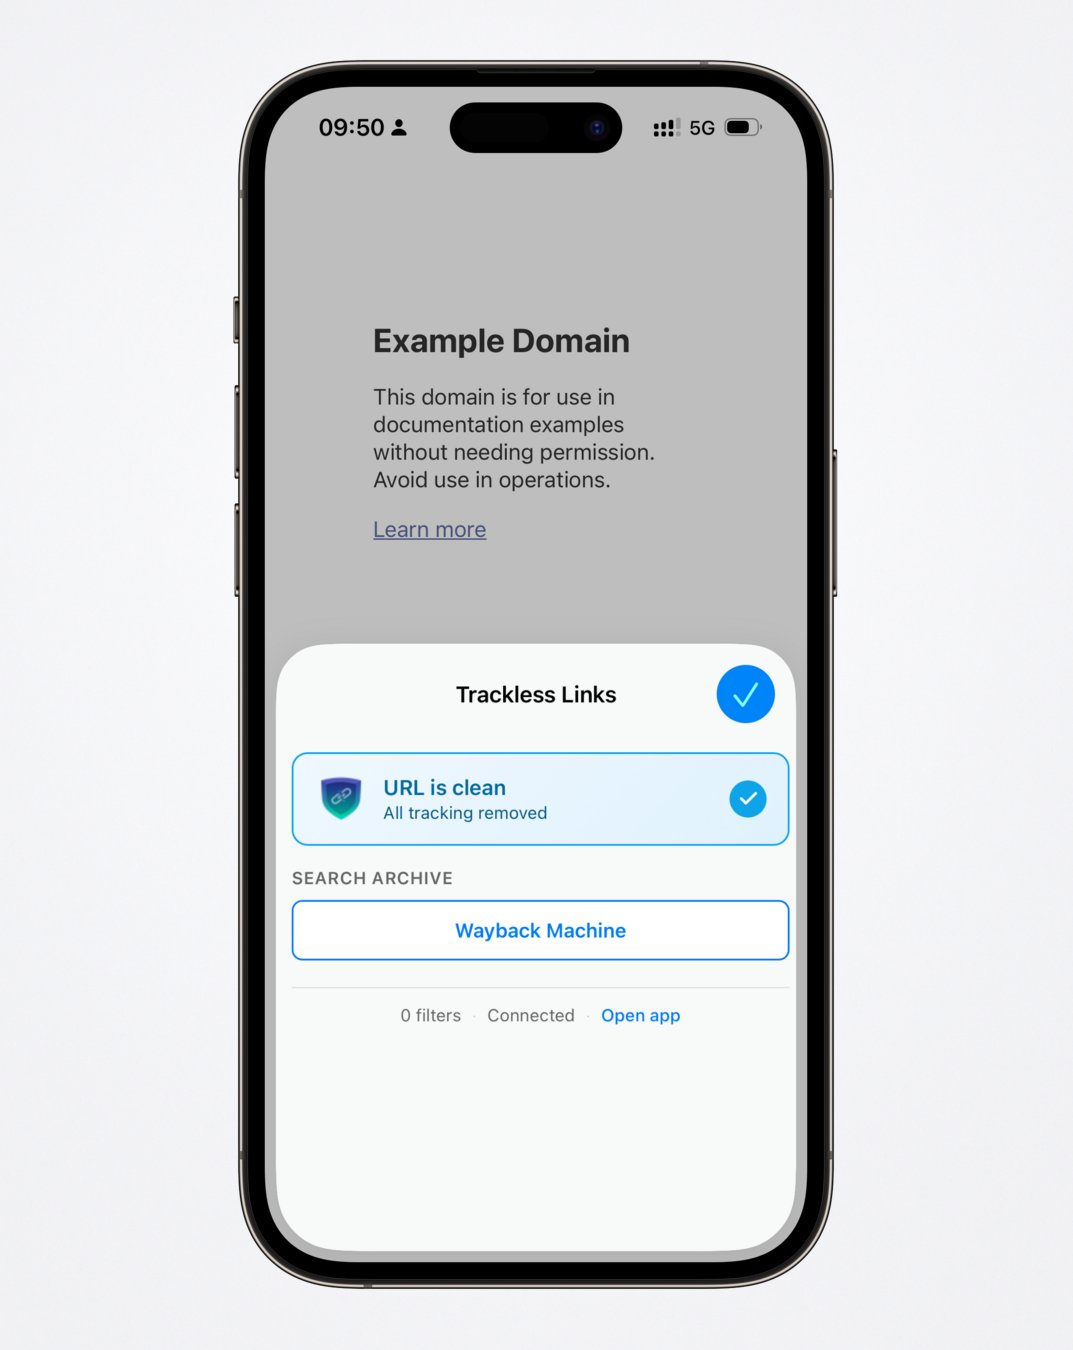
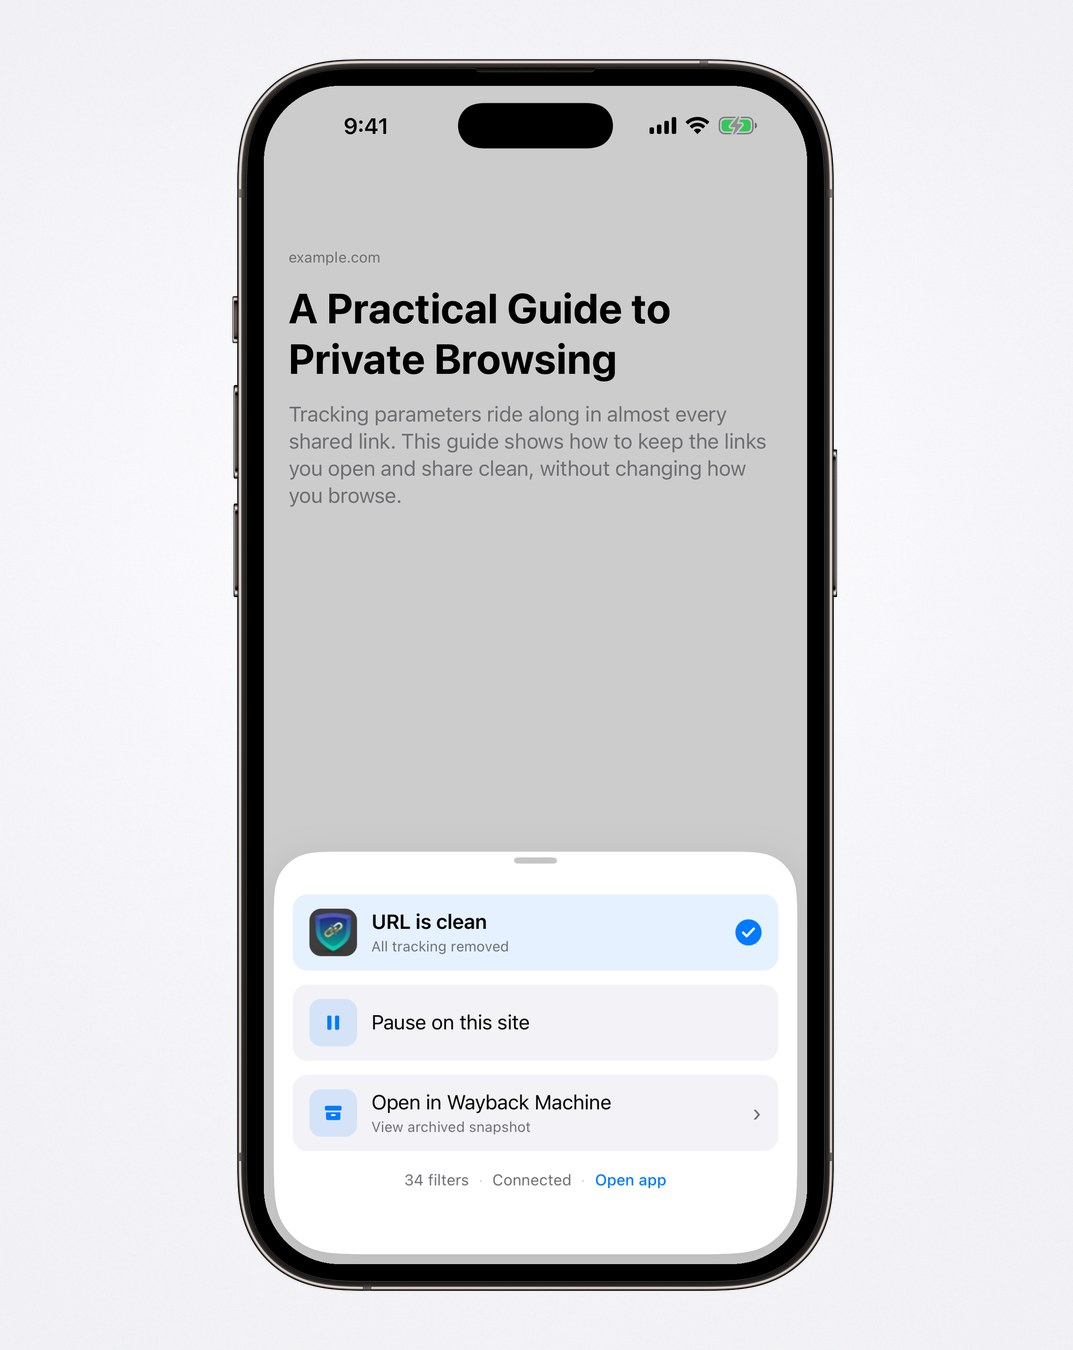
Add 4.6 Share Sheet screenshots and update the Safari popup screenshot
New screenshots of the Share Sheet resolving a t.co short link and cleaning every link in shared text, and a current Safari extension popup (Pause on this site, Wayback Machine, Open app). They show the app's own Share Sheet and popup code with demo URLs only. Each uses the same device frame, size (1339x2716) and screen position as the existing screenshots; the social versions use the existing backdrops at the same device size and position (1073x1350).

README in six languages: a new first row in the Screenshots table with both Share Sheet images. Landing page: both Share Sheet images first in the gallery. The popup images replace the old ones under the same file names, so the existing references stay valid.

diff --git a/docs/index.html b/docs/index.html
@@ -202,6 +202,8 @@ footer a{color:rgba(255,255,255,0.5);text-decoration:none}
 <section class="screenshots">
   <h2>See it in action</h2>
   <div class="screenshot-scroll">
+    <img src="https://raw.githubusercontent.com/aloth/trackless-links/main/assets/social-media/trackless-links_trackless-links-share-sheet-resolve-short-link_on_trackless-links-ios-screenshot-backdrop-clean-minimalist.jpg" alt="Share Sheet resolving a t.co short link" loading="lazy">
+    <img src="https://raw.githubusercontent.com/aloth/trackless-links/main/assets/social-media/trackless-links_trackless-links-share-sheet-clean-copy-text_on_trackless-links-pro-marketing-background-dark-gold-accent.jpg" alt="Share Sheet cleaning every link in shared text" loading="lazy">
     <img src="https://raw.githubusercontent.com/aloth/trackless-links/main/assets/social-media/trackless-links_trackless-links-ios-safari-extension-dashboard_on_trackless-links-app-store-background-blue-teal-gradient.jpg" alt="Safari extension dashboard" loading="lazy">
     <img src="https://raw.githubusercontent.com/aloth/trackless-links/main/assets/social-media/trackless-links_trackless-links-url-tracking-filter-list_on_trackless-links-ios-screenshot-backdrop-clean-minimalist.jpg" alt="URL tracking filter list" loading="lazy">
     <img src="https://raw.githubusercontent.com/aloth/trackless-links/main/assets/social-media/trackless-links_trackless-links-pro-safari-extension-popup_on_trackless-links-pro-marketing-background-dark-gold-accent.jpg" alt="Safari extension popup" loading="lazy">

diff --git a/README_ja.md b/README_ja.md
@@ -151,6 +151,24 @@ Free版でもついに実現。ページを離れずにYouTube動画をPiPで視
 <tr>
 <td width="50%">
 
+### 📤 共有シート：短縮リンクを展開
+t.co、bit.ly、TikTok、Redditの短縮リンクを共有して展開をタップすると、トラッカーを削除したリンク先を確認できます（iPhone・iPad）。
+
+<img src="screenshots/trackless-links-share-sheet-resolve-short-link.png" alt="t.coの短縮リンクをトラッキングパラメータなしのリンク先に展開する共有シート" width="400"/>
+
+</td>
+<td width="50%">
+
+### 📤 共有シート：テキスト内のすべてのリンクをクリーンに
+複数のリンクを含むメッセージやメモを共有し、クリーンにしてテキストをコピーをタップ。テキストはそのままで、すべてのリンクがクリーンになります。
+
+<img src="screenshots/trackless-links-share-sheet-clean-copy-text.png" alt="クリーンにしてテキストをコピーで共有テキスト内のすべてのリンクをクリーンにする共有シート" width="400"/>
+
+</td>
+</tr>
+<tr>
+<td width="50%">
+
 ### 🏠 プライバシーダッシュボード
 ブロックしたトラッカー、適用したリダイレクト、節約したデータ量をリアルタイム表示。iPhone、iPad、Mac向けのクリーンなLiquid Glassデザイン。
 

diff --git a/README_fr.md b/README_fr.md
@@ -153,6 +153,24 @@ Retrouvez instantanément les contenus supprimés ou modifiés.
 <tr>
 <td width="50%">
 
+### 📤 Feuille de partage : résoudre les liens courts
+Partagez un lien court t.co, bit.ly, TikTok ou Reddit et touchez Résoudre pour voir où il mène, déjà sans traqueurs (iPhone et iPad).
+
+<img src="screenshots/trackless-links-share-sheet-resolve-short-link.png" alt="Feuille de partage résolvant un lien court t.co vers sa destination sans paramètres de suivi" width="400"/>
+
+</td>
+<td width="50%">
+
+### 📤 Feuille de partage : nettoyer tous les liens d'un texte
+Partagez un message ou une note contenant plusieurs liens et touchez Nettoyer et copier le texte. Tous les liens sont nettoyés, le texte reste tel quel.
+
+<img src="screenshots/trackless-links-share-sheet-clean-copy-text.png" alt="Feuille de partage nettoyant tous les liens d'un texte avec Nettoyer et copier le texte" width="400"/>
+
+</td>
+</tr>
+<tr>
+<td width="50%">
+
 ### 🏠 Tableau de bord de confidentialité
 Statistiques en temps réel : traqueurs bloqués, redirections appliquées, bande passante économisée. Design Liquid Glass épuré pour iPhone, iPad et Mac.
 

diff --git a/README_es.md b/README_es.md
@@ -153,6 +153,24 @@ Encuentra al instante contenido borrado o modificado.
 <tr>
 <td width="50%">
 
+### 📤 Hoja para compartir: resolver enlaces cortos
+Comparte un enlace corto de t.co, bit.ly, TikTok o Reddit y toca Resolver para ver adónde lleva, ya sin rastreadores (iPhone y iPad).
+
+<img src="screenshots/trackless-links-share-sheet-resolve-short-link.png" alt="Hoja para compartir resolviendo un enlace corto de t.co a su destino sin parámetros de seguimiento" width="400"/>
+
+</td>
+<td width="50%">
+
+### 📤 Hoja para compartir: limpiar todos los enlaces de un texto
+Comparte un mensaje o una nota con varios enlaces y toca Limpiar y copiar texto. Se limpian todos los enlaces y el texto queda igual.
+
+<img src="screenshots/trackless-links-share-sheet-clean-copy-text.png" alt="Hoja para compartir limpiando todos los enlaces de un texto con Limpiar y copiar texto" width="400"/>
+
+</td>
+</tr>
+<tr>
+<td width="50%">
+
 ### 🏠 Panel de privacidad
 Estadísticas en tiempo real con rastreadores bloqueados, redirecciones aplicadas y datos ahorrados. Diseño Liquid Glass limpio para iPhone, iPad y Mac.
 

diff --git a/README_de.md b/README_de.md
@@ -151,6 +151,24 @@ Finde gelöschte oder geänderte Inhalte sofort.
 <tr>
 <td width="50%">
 
+### 📤 Share Sheet: Kurzlinks auflösen
+Teile einen t.co-, bit.ly-, TikTok- oder Reddit-Kurzlink und tippe auf Auflösen: Du siehst, wohin er führt, mit bereits entfernten Trackern (iPhone & iPad).
+
+<img src="screenshots/trackless-links-share-sheet-resolve-short-link.png" alt="Share Sheet löst einen t.co-Kurzlink zu seinem Ziel auf, Tracking-Parameter entfernt" width="400"/>
+
+</td>
+<td width="50%">
+
+### 📤 Share Sheet: Alle Links im Text bereinigen
+Teile eine Nachricht oder Notiz mit mehreren Links und tippe auf Bereinigen & Text kopieren. Alle Links werden bereinigt, der Text bleibt, wie er war.
+
+<img src="screenshots/trackless-links-share-sheet-clean-copy-text.png" alt="Share Sheet bereinigt alle Links in geteiltem Text mit Bereinigen & Text kopieren" width="400"/>
+
+</td>
+</tr>
+<tr>
+<td width="50%">
+
 ### 🏠 Datenschutz-Dashboard
 Echtzeit-Statistiken mit blockierten Trackern, angewendeten Weiterleitungen und gespartem Datenvolumen. Klares Liquid Glass-Design für iPhone, iPad und Mac.
 

diff --git a/README_zh-Hans.md b/README_zh-Hans.md
@@ -151,6 +151,24 @@ iOS完整的隐私保护和浏览控制。**仅支持 iOS — Mac 用户需要 P
 <tr>
 <td width="50%">
 
+### 📤 共享表单：展开短链接
+分享 t.co、bit.ly、TikTok 或 Reddit 短链接并点击展开，即可查看它指向哪里，跟踪器已被移除（iPhone 和 iPad）。
+
+<img src="screenshots/trackless-links-share-sheet-resolve-short-link.png" alt="共享表单将 t.co 短链接展开为已移除跟踪参数的目标地址" width="400"/>
+
+</td>
+<td width="50%">
+
+### 📤 共享表单：清理文本中的所有链接
+分享包含多个链接的消息或备忘录，点击清理并复制文本。所有链接都会被清理，文本保持原样。
+
+<img src="screenshots/trackless-links-share-sheet-clean-copy-text.png" alt="共享表单通过清理并复制文本清理分享文本中的所有链接" width="400"/>
+
+</td>
+</tr>
+<tr>
+<td width="50%">
+
 ### 🏠 隐私仪表板
 实时统计显示已拦截的追踪器、已应用的重定向和节省的带宽。为iPhone、iPad和Mac优化的简洁Liquid Glass设计。
 

diff --git a/README.md b/README.md
@@ -153,6 +153,24 @@ Find deleted or changed content instantly.
 <tr>
 <td width="50%">
 
+### 📤 Share Sheet: Resolve Short Links
+Share a t.co, bit.ly, TikTok, or Reddit short link and tap Resolve to see where it leads, with its trackers already removed (iPhone & iPad).
+
+<img src="screenshots/trackless-links-share-sheet-resolve-short-link.png" alt="Share Sheet resolving a t.co short link to its destination with tracking parameters removed" width="400"/>
+
+</td>
+<td width="50%">
+
+### 📤 Share Sheet: Clean Every Link in Text
+Share a message or note with several links and tap Clean & Copy Text. Every link is cleaned, the text stays exactly as it was.
+
+<img src="screenshots/trackless-links-share-sheet-clean-copy-text.png" alt="Share Sheet cleaning every link in shared text with Clean & Copy Text" width="400"/>
+
+</td>
+</tr>
+<tr>
+<td width="50%">
+
 ### 🏠 Privacy Dashboard
 Real-time statistics showing blocked trackers, applied redirects, and bandwidth saved. Clean Liquid Glass design for iPhone, iPad, and Mac.
 
